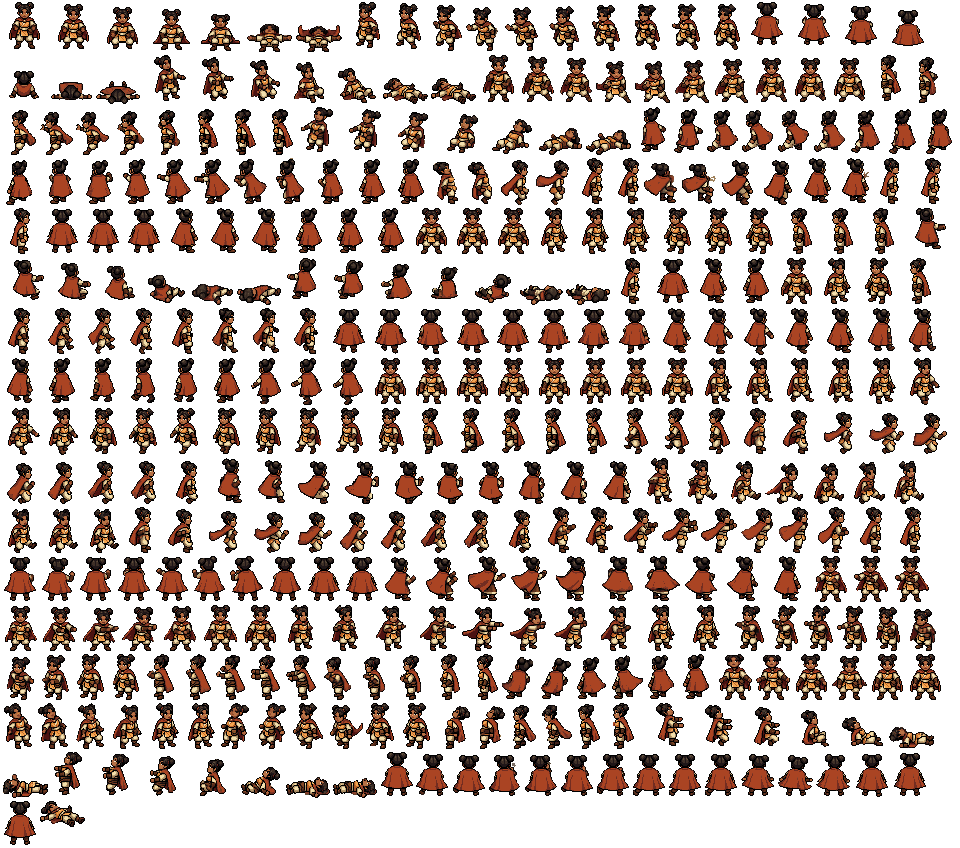
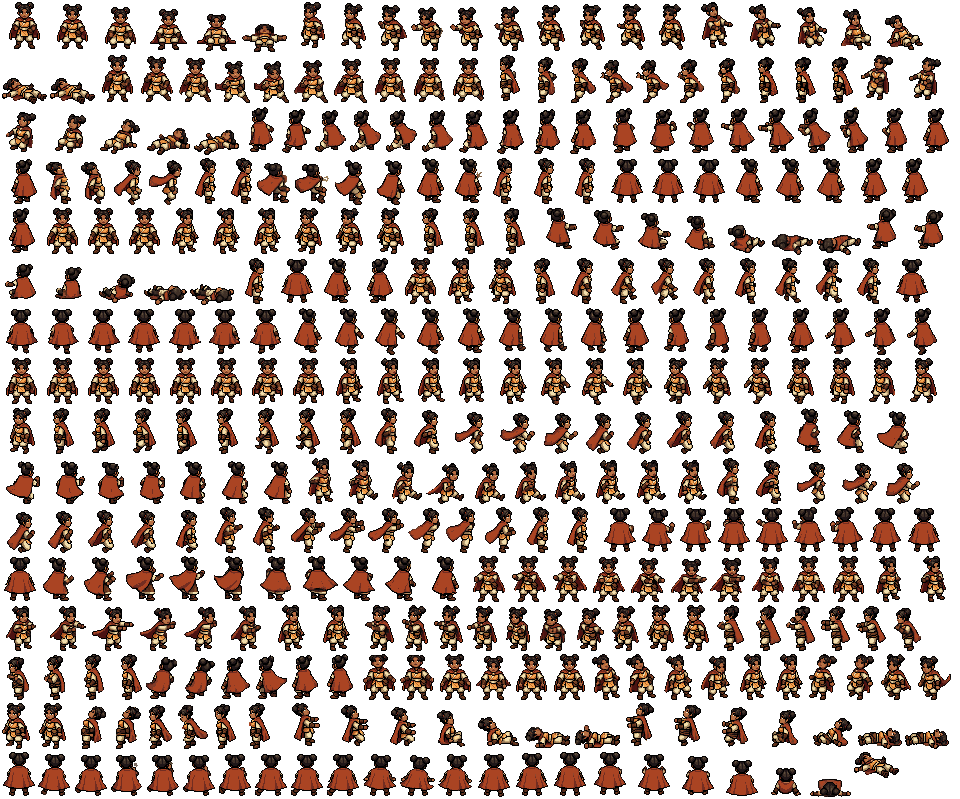
Hold Jinu's knockout early and mirror Wen's west punch
Jinu's south and north knockouts spread her cape into wings from the
seventh cel, so a spec's koCels holds the sixth there. Wen's hook punch
turned the gauntlet into a hook or a rope in the west and north-west, so
a pose's mirror draws those headings from east and north-east flipped
about the anchor column. No new PixelLab jobs.

Claude-Session: https://claude.ai/code/session_01H8JDTPYztrZvUL5HBCK6eR

diff --git a/scripts/art/topdown/pack-sheets.ts b/scripts/art/topdown/pack-sheets.ts
@@ -124,8 +124,26 @@ export interface FigureSpec {
   readonly stride: number;
   readonly hit?: string;
   readonly ko?: string;
-  /** Ability poses: pose name -> animation key, with how many frames the prototype plays (Kaya's jab: 11). */
-  readonly actions: Readonly<Record<string, { readonly anim: string; readonly frames?: number }>>;
+  /**
+   * Knockout headings that end earlier than `KO_CELS`: how many cels they keep, the last one held. Jinu's south and
+   * north knockouts spread the cape into wings from the seventh cel, so they hold the sixth.
+   */
+  readonly koCels?: Partial<Record<Heading, number>>;
+  /**
+   * Ability poses: pose name -> animation key, with how many frames the prototype plays (Kaya's jab: 11). `mirror`
+   * draws a heading from another heading's cels flipped about the anchor column (the hand swaps), for a heading whose
+   * own take is unusable: Wen's gauntlet turned into a hook or a rope in the west and north-west of her punch.
+   */
+  readonly actions: Readonly<
+    Record<
+      string,
+      {
+        readonly anim: string;
+        readonly frames?: number;
+        readonly mirror?: Partial<Record<Heading, Heading>>;
+      }
+    >
+  >;
   /** The pose the legacy mirrored `cast` plays (its east heading). */
   readonly cast?: string;
   readonly timing: Timing;
@@ -447,6 +465,8 @@ const ROSTER: readonly FigureSpec[] = [
     stride: 28,
     hit: 'custom-a hit reaction: flinches from @62f5fc',
     ko: 'custom-knocked out: staggers back one@5a0a37',
+    // The seventh and eighth cels spread her cape into wings in the south and north: those hold the sixth.
+    koCels: { south: 6, north: 6 },
     actions: {
       attack: { anim: 'custom-a martial-arts open palm push:@dd511a' },
       gust: { anim: 'custom-a wide sweeping two-arm swing:@789b1a' },
@@ -480,7 +500,11 @@ const ROSTER: readonly FigureSpec[] = [
     hit: 'custom-a hit reaction: flinches from @3bbc70',
     ko: 'custom-knocked out: staggers back one@c886be',
     actions: {
-      attack: { anim: 'custom-a heavy hook punch: winds the @0e1997' },
+      // West and north-west turned the gauntlet into a hook or a rope (twice): drawn as east and north-east, mirrored.
+      attack: {
+        anim: 'custom-a heavy hook punch: winds the @0e1997',
+        mirror: { west: 'east', northWest: 'northEast' },
+      },
       spark: { anim: 'custom-thrusts the right arm with the@c4e7db' },
     },
     cast: 'attack',
@@ -649,6 +673,18 @@ function png(path: string): Image {
 }
 
 /** A figure frame: hard alpha, cleaned, centred on the 80 px basis. */
+/** A placed cel flipped about the basis' anchor column: basis pixel x lands on `BASIS - 1 - x`. */
+function mirrored(cel: Placed): Placed {
+  const { width: w, height: h } = cel.image;
+  const image = newImage(w, h);
+  for (let y = 0; y < h; y++)
+    for (let x = 0; x < w; x++) {
+      const from = (y * w + x) * 4;
+      image.data.set(cel.image.data.subarray(from, from + 4), (y * w + (w - 1 - x)) * 4);
+    }
+  return { image, ox: BASIS - cel.ox - w, oy: cel.oy };
+}
+
 function figureCel(folder: string, file: string): Placed {
   const raw = png(join(SOURCE, 'chars', folder, file));
   return {
@@ -887,9 +923,13 @@ function figureSheet(spec: FigureSpec): Sheet {
     const ko = anim(spec.ko);
     actions.ko = {};
     for (const h of HEADINGS) {
-      const cels = load((ko[DIR[h]] ?? []).slice(0, KO_CELS));
+      const cels = load((ko[DIR[h]] ?? []).slice(0, spec.koCels?.[h] ?? KO_CELS));
       const clip = sided('ko', h, false);
-      const def = trimClip(clip, cels, timed(KO_MS, cels.length));
+      // A shortened knockout still lies still on its last cel for the full hold.
+      const ms = timed(KO_MS, cels.length).map((v, i, all) =>
+        i === all.length - 1 ? (KO_MS[KO_MS.length - 1] ?? v) : v,
+      );
+      const def = trimClip(clip, cels, ms);
       actions.ko[h] = def;
       if (DIAGONALS.includes(h)) clips[clip] = def;
     }
@@ -898,12 +938,18 @@ function figureSheet(spec: FigureSpec): Sheet {
     const last = se[se.length - 1];
     if (last) clips.ko = trimClip('ko', [last], [1000]);
   }
-  for (const [pose, { anim: id, frames }] of Object.entries(spec.actions)) {
+  for (const [pose, { anim: id, frames, mirror }] of Object.entries(spec.actions)) {
     const a = anim(id);
+    /** A heading's cels: its own, or (`mirror`) another heading's flipped. */
+    const celsOf = (h: Heading): Placed[] => {
+      const from = mirror?.[h];
+      const own = load((a[DIR[from ?? h]] ?? []).slice(0, frames));
+      return from ? own.map(mirrored) : own;
+    };
     actions[pose] = {};
     // One shared 3D motion per move, so the strike is measured once (`moves4.py`, `build_b3.py`).
     const reach = (h: Heading, pick: (b: Box) => number) => {
-      const cels = load((a[DIR[h]] ?? []).slice(0, frames));
+      const cels = celsOf(h);
       let best = 0;
       cels.forEach((c, i) => {
         const b = inkBox(c);
@@ -922,7 +968,7 @@ function figureSheet(spec: FigureSpec): Sheet {
             ? reach('south', (b) => b.y0)
             : reach('east', (b) => b.x1);
     for (const h of HEADINGS) {
-      const cels = load((a[DIR[h]] ?? []).slice(0, frames));
+      const cels = celsOf(h);
       const t =
         spec.timing === 'bend'
           ? bendTiming(pose, cels.length, strike ?? 0)
